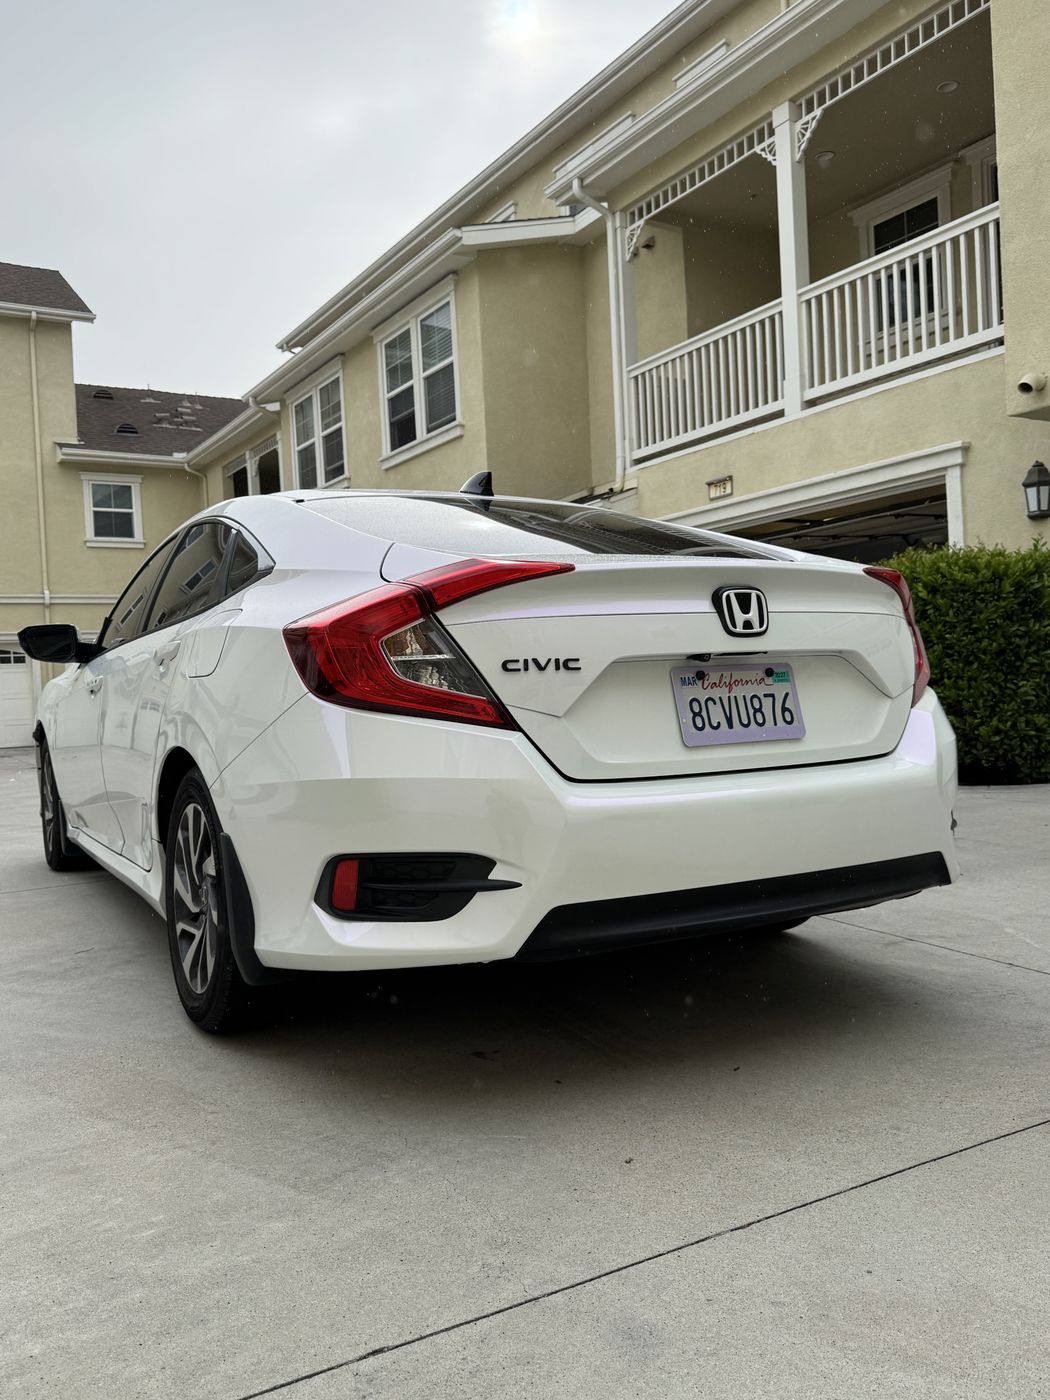
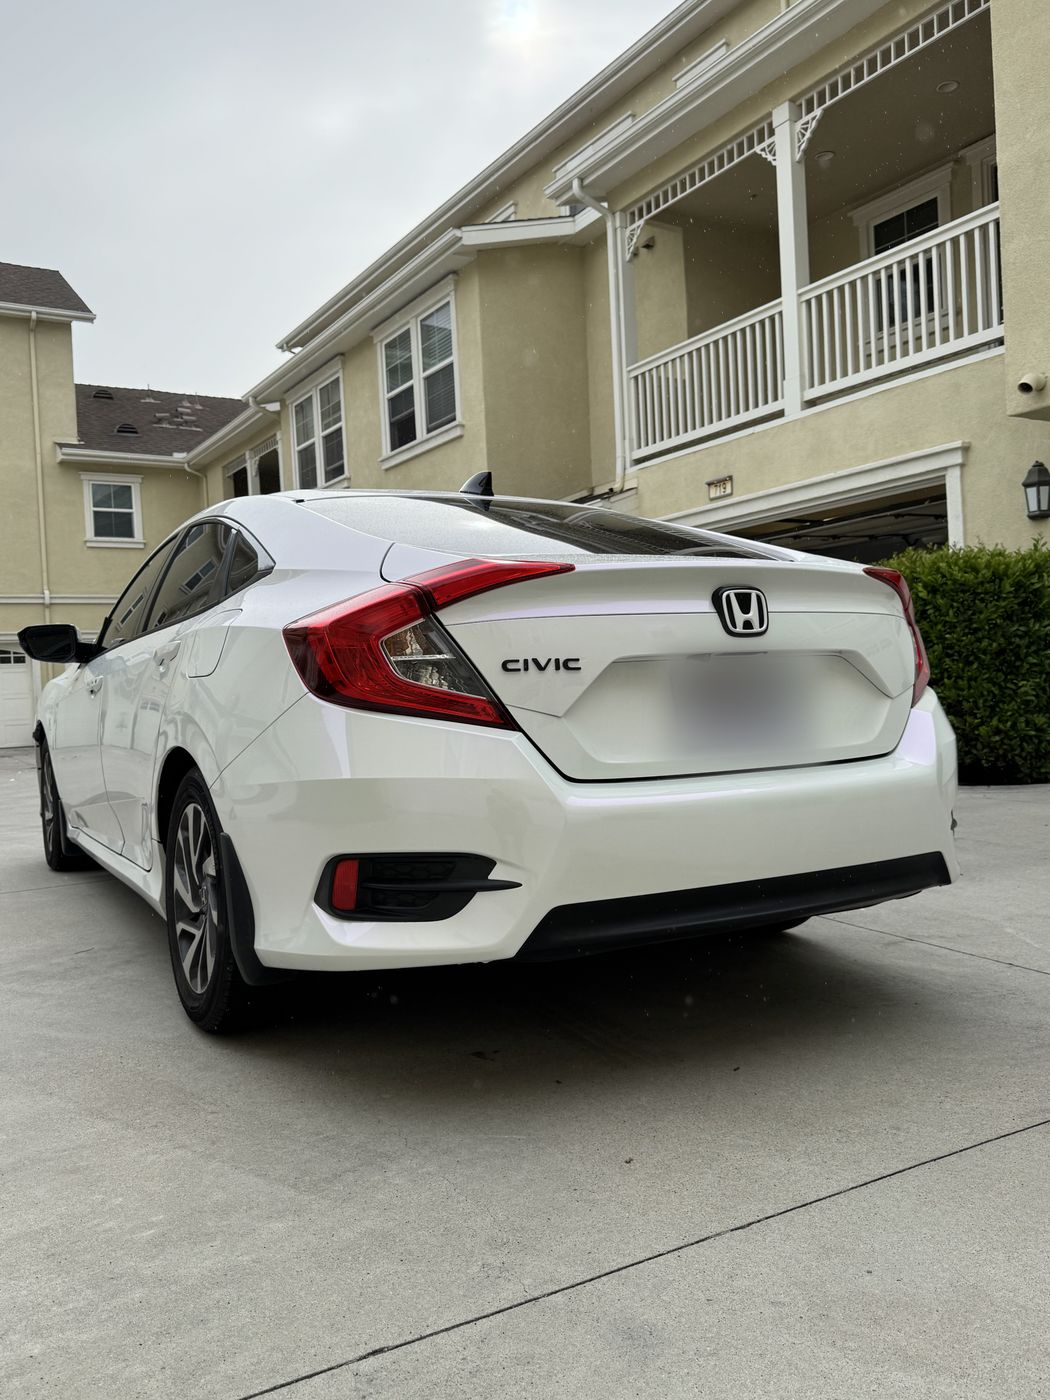
Blur the license plates in the gallery
Three of the fourteen photos showed a readable plate: the Civic's rear, the
S8's rear, and a Texas plate lying on the floor in one of the Z4 shots. All
three are now blurred past recovery, with the mask feathered so it reads as
a blur rather than a redaction box.

Re-exported from the originals rather than blurring the JPEGs we shipped, so
the rest of each frame isn't compressed twice.

Photo URLs carry a version tag now — the filenames didn't change, so without
it anyone who already opened the gallery would keep the cached unblurred copy.

Changed region(s): [[0.64, 0.4607, 0.7924, 0.5529]]

diff --git a/assets/site.js b/assets/site.js
@@ -210,6 +210,9 @@ function showQuoteModal(preset) {
 // One card per build on gallery.html; clicking it opens that car's set.
 // Paths resolve from the nav logo so this works from any folder depth.
 const ASSET_BASE = logoSrc.indexOf('../') === 0 ? '../' : '';
+// bumped when a photo is re-exported under the same name, so nobody keeps a
+// cached copy of an image we've since edited (plate blurring, for instance)
+const PHOTO_V = '?v=2';
 
 const GALLERY_SETS = {
   civic: {
@@ -280,7 +283,7 @@ function showLightbox(key, start) {
   set.photos.forEach(function (ph, n) {
     const t = document.createElement('button');
     t.className = 'lb-thumb';
-    t.style.backgroundImage = 'url("' + ASSET_BASE + 'images/gallery/' + ph[0] + '")';
+    t.style.backgroundImage = 'url("' + ASSET_BASE + 'images/gallery/' + ph[0] + PHOTO_V + '")';
     t.setAttribute('aria-label', 'Photo ' + (n + 1));
     t.addEventListener('click', function () { i = n; render(); });
     thumbs.appendChild(t);
@@ -288,7 +291,7 @@ function showLightbox(key, start) {
 
   function render() {
     const ph = set.photos[i];
-    img.src = ASSET_BASE + 'images/gallery/' + ph[0];
+    img.src = ASSET_BASE + 'images/gallery/' + ph[0] + PHOTO_V;
     img.alt = set.name + ' — ' + ph[1];
     cap.textContent = ph[1];
     count.textContent = (i + 1) + ' / ' + set.photos.length;
@@ -309,7 +312,7 @@ function showLightbox(key, start) {
   });
 
   // preload the neighbours so paging doesn't flash
-  set.photos.forEach(function (ph) { new Image().src = ASSET_BASE + 'images/gallery/' + ph[0]; });
+  set.photos.forEach(function (ph) { new Image().src = ASSET_BASE + 'images/gallery/' + ph[0] + PHOTO_V; });
 
   render();
   openOverlay(ov);
@@ -340,7 +343,7 @@ document.querySelectorAll('.gal-item[data-set]').forEach(el => {
   const set = GALLERY_SETS[key];
   if (!set) return;
   const bg = el.querySelector('.gal-bg');
-  if (bg) bg.style.backgroundImage = 'url("' + ASSET_BASE + 'images/gallery/' + (set.cover || set.photos[0][0]) + '")';
+  if (bg) bg.style.backgroundImage = 'url("' + ASSET_BASE + 'images/gallery/' + (set.cover || set.photos[0][0]) + PHOTO_V + '")';
   el.addEventListener('click', () => showLightbox(key, 0));
 });
 
